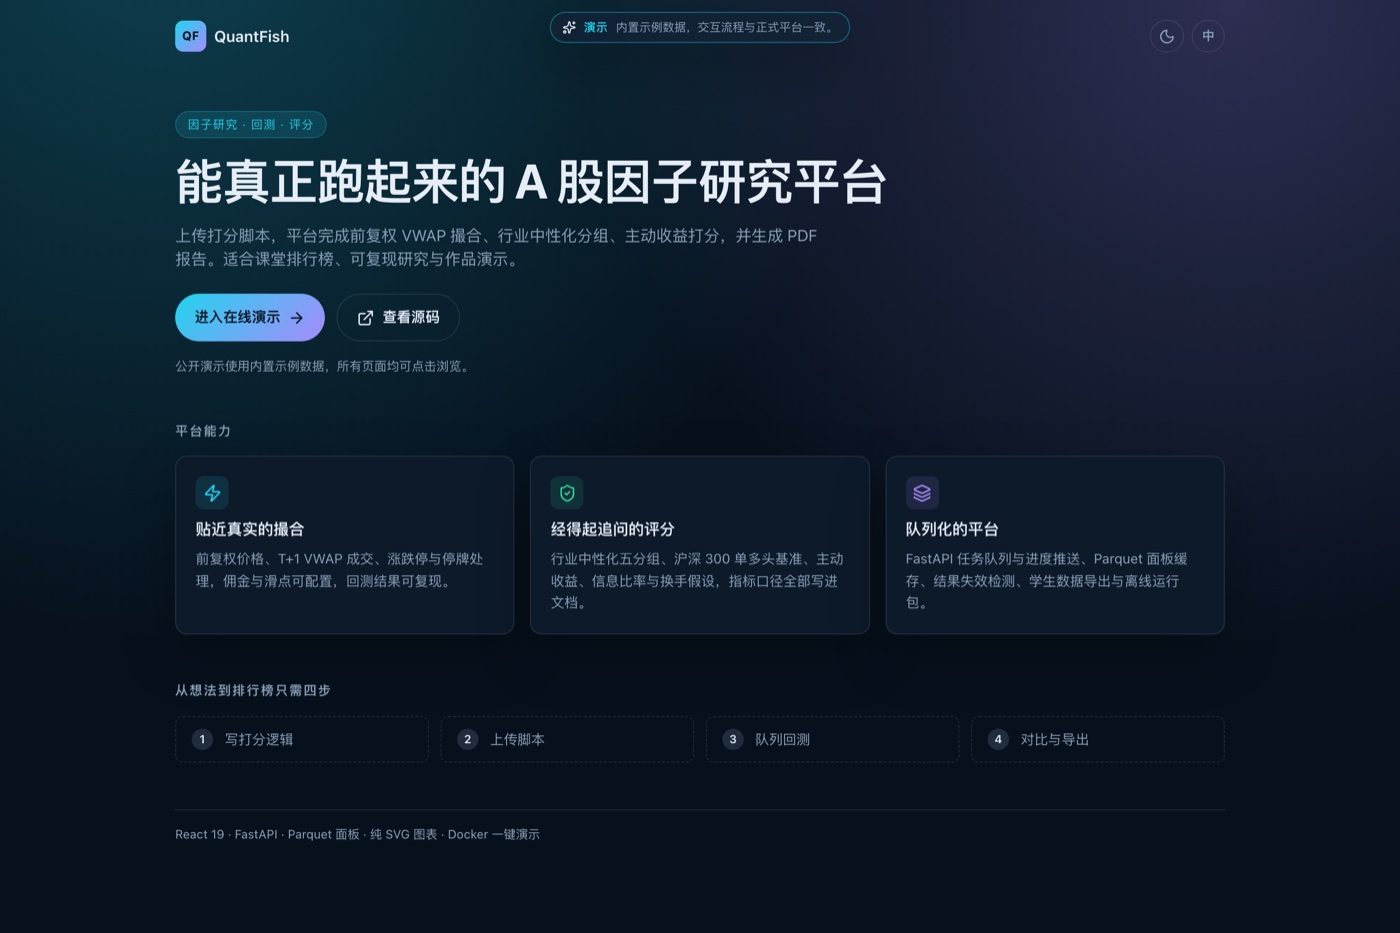
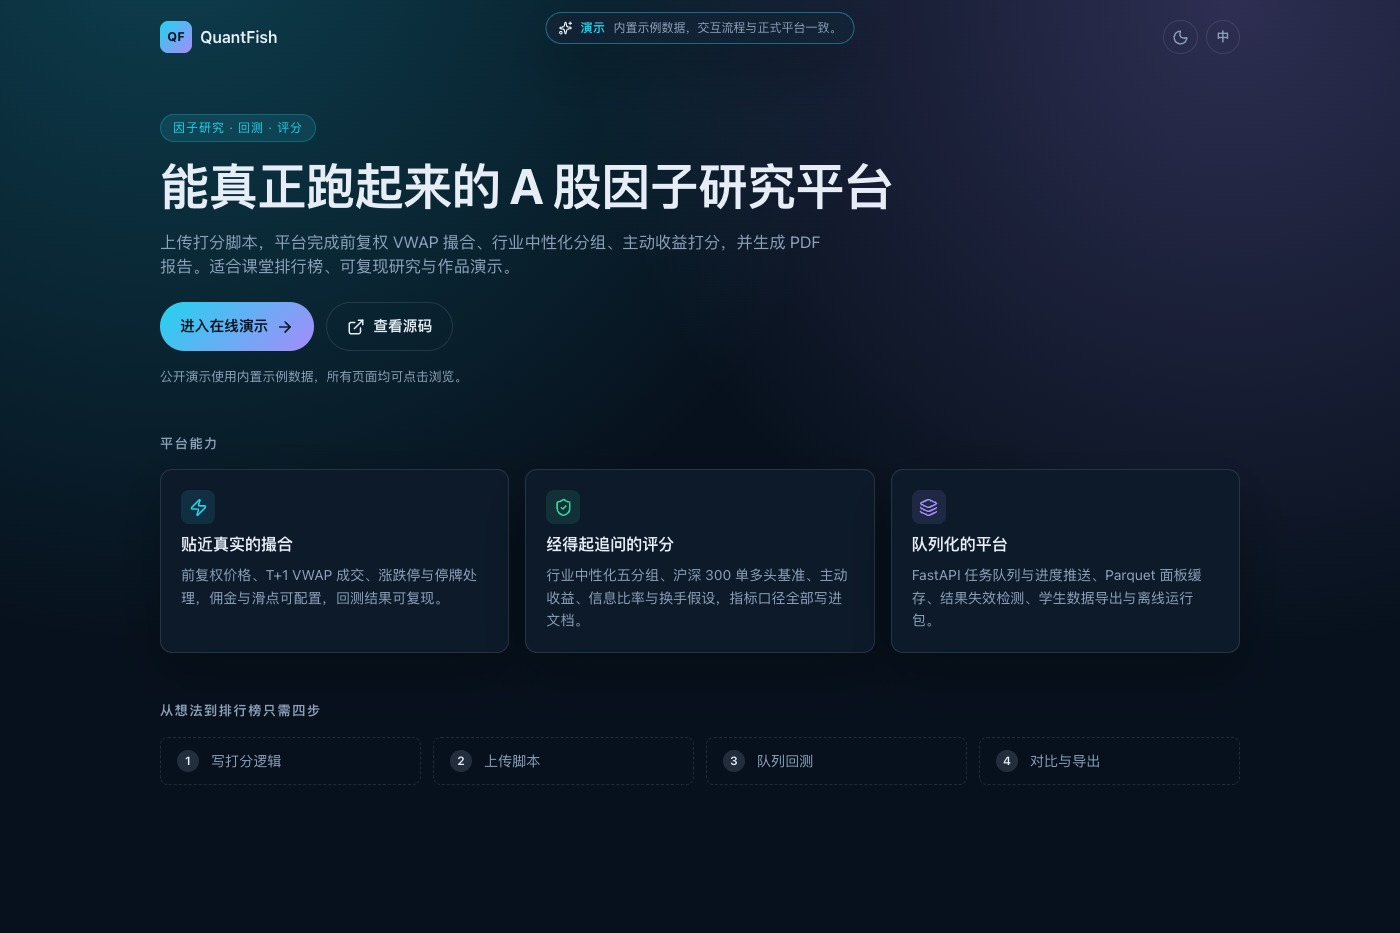
chore(landing): drop the tech-stack footer line

diff --git a/frontend/src/shared/i18n/translations.ts b/frontend/src/shared/i18n/translations.ts
@@ -41,8 +41,7 @@ export const translations = {
         step2: "Submit the script",
         step3: "Queued backtest",
         step4: "Compare and export"
-      },
-      stack: "React 19 · FastAPI · Parquet panels · pure SVG charts · one-command Docker demo"
+      }
     },
     demo: {
       badge: "Demo",
@@ -963,8 +962,7 @@ export const translations = {
         step2: "上传脚本",
         step3: "队列回测",
         step4: "对比与导出"
-      },
-      stack: "React 19 · FastAPI · Parquet 面板 · 纯 SVG 图表 · Docker 一键演示"
+      }
     },
     demo: {
       badge: "演示",

diff --git a/frontend/src/features/landing/view.module.css b/frontend/src/features/landing/view.module.css
@@ -254,16 +254,6 @@
   font-weight: var(--qf-font-weight-semibold);
 }
 
-.footer {
-  width: 100%;
-  max-width: 1080px;
-  margin: var(--qf-space-12) auto 0;
-  padding-top: var(--qf-space-4);
-  border-top: 1px solid var(--qf-border);
-  color: var(--qf-text-muted);
-  font-size: 0.78rem;
-}
-
 @media (max-width: 900px) {
   .featureGrid {
     grid-template-columns: 1fr;

diff --git a/frontend/src/features/landing/view.tsx b/frontend/src/features/landing/view.tsx
@@ -99,8 +99,6 @@ export function LandingView() {
           </ol>
         </section>
       </main>
-
-      <footer className={styles.footer}>{t("landing.stack")}</footer>
     </div>
   );
 }
